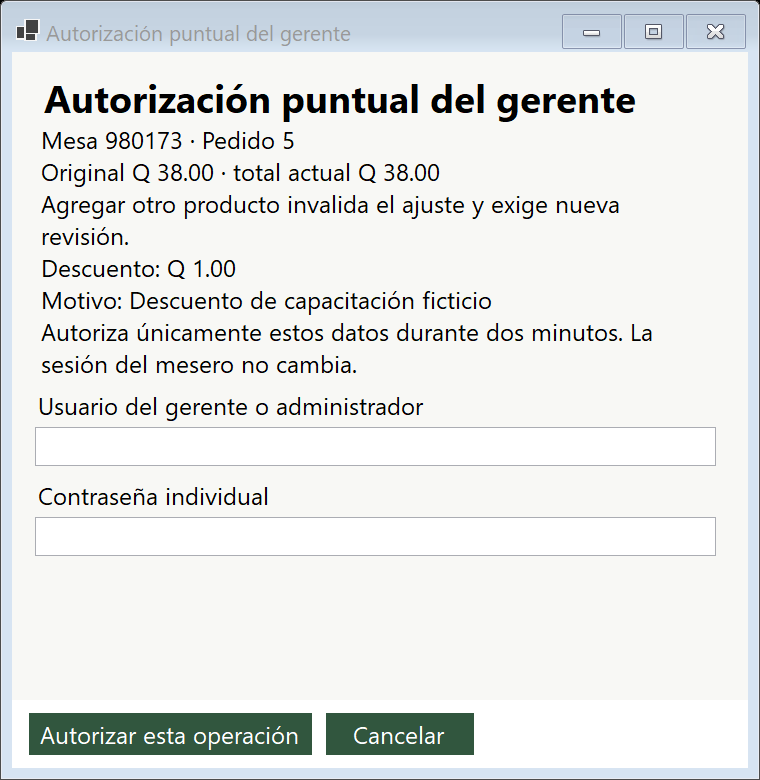
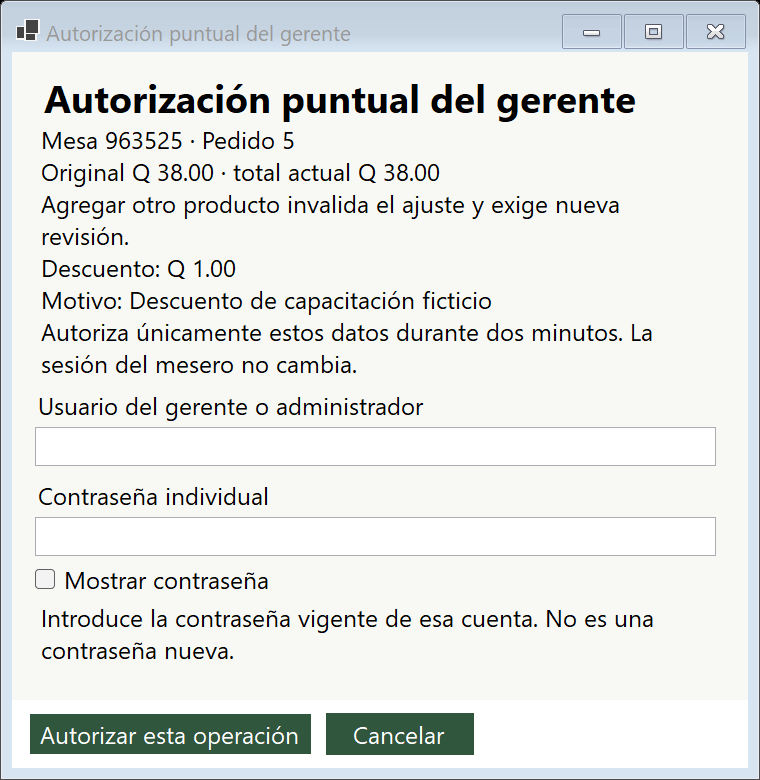
Corregir rechazos de autorización y permitir reintentos seguros

Changed region(s): [[0.0303, 0.7385, 0.8776, 0.8615], [0.1513, 0.1538, 0.2421, 0.2154]]

diff --git a/restaurante2/Pruebas/Roles/PruebasRechazosAutorizacion.cs b/restaurante2/Pruebas/Roles/PruebasRechazosAutorizacion.cs
@@ -1,0 +1,84 @@
+using System.Diagnostics;
+using System.Reflection;
+using System.Text.Json;
+using Microsoft.Data.SqlClient;
+using Restaurante.Backend.Dominio;
+using Restaurante.Backend.Servicios;
+using Restaurante.Frontend.Formularios;
+namespace PruebasRoles;
+internal static class PruebasRechazosAutorizacion
+{
+ const string Temporal="TemporalSoloPruebas2026!",Personal="PersonalSoloPruebas2026!";
+ public static void Ejecutar(string cadena,RepositorioRestaurante admin,string dir,Action<bool,string> ok)
+ {
+    if(!new SqlConnectionStringBuilder(cadena).InitialCatalog.StartsWith("Restaurante_Pruebas_"))throw new Exception("Solo bases aisladas.");
+    Directory.CreateDirectory(dir);ApplicationConfiguration.Initialize();var sufijo=Guid.NewGuid().ToString("N")[..8];
+    RepositorioRestaurante Repo(string u,string p){var r=new RepositorioRestaurante(new ConfiguracionConexionTemporal(cadena));if(r.IniciarSesion(u,p) is null)throw new Exception("No autentica fixture");return r;}
+    string Crear(string rol,bool cambiar=true)
+    {var u=rol+sufijo+Guid.NewGuid().ToString("N")[..4];admin.GuardarUsuario(null,"Persona ficticia "+rol,u,rol,true,Temporal);if(cambiar){var r=Repo(u,Temporal);r.CambiarMiContrasena(Temporal,Personal);}return u;}
+    void Sql(string sql,params(string,object)[] ps){using var c=new SqlConnection(cadena);c.Open();using var q=new SqlCommand(sql,c);foreach(var(n,v) in ps)q.Parameters.AddWithValue(n,v);q.ExecuteNonQuery();}
+    int Conteo(string tabla,Guid op){using var c=new SqlConnection(cadena);c.Open();using var q=new SqlCommand($"SELECT COUNT(*) FROM dbo.{tabla} WHERE "+(tabla=="OperacionesRestaurante"?"Id":"OperacionId")+"=@id;",c);q.Parameters.AddWithValue("@id",op);return(int)q.ExecuteScalar()!;}
+    var meseroNombre=Crear("Mesero");var gerente=Crear("Gerente");var administrador=Crear("Administrador");var temporal=Crear("Gerente",false);var inactivo=Crear("Gerente");
+    var uInactivo=admin.ListarUsuarios().Single(u=>u.Usuario==inactivo);admin.GuardarUsuario(uInactivo.Id,uInactivo.Nombre,uInactivo.Usuario,uInactivo.Rol,false,null);
+    var mesero=Repo(meseroNombre,Personal);var numero=1000000+Random.Shared.Next(90000);admin.CrearMesa(numero,4);var mesa=admin.ListarMesas().Single(m=>m.Numero==numero);var producto=admin.ListarMenu().First(p=>p.Precio>0);
+    var pedido=mesero.CrearPedido(new SolicitudPedido{MesaId=mesa.Id,Detalles=[new(producto.Id,1)]});var cuenta=mesero.RevisarCuenta(pedido.Id);
+    var solicitud=new SolicitudGestionMesa(Guid.NewGuid(),mesa.Id,pedido.Id,cuenta.Version,"Cancelar","Sin preparación ni consumo en prueba aislada",true);
+    ResultadoAutorizacion Intentar(string u,string p)=>mesero.IntentarAutorizarOperacion(solicitud.OperacionId,"GestionMesa",JsonSerializer.Serialize(solicitud),u,p);
+    int excepciones=0;EventHandler<System.Runtime.ExceptionServices.FirstChanceExceptionEventArgs> escuchar=(_,e)=>{if(e.Exception is UnauthorizedAccessException)excepciones++;};AppDomain.CurrentDomain.FirstChanceException+=escuchar;
+    try
+    {
+        ok(Intentar("","").Estado==EstadoAutorizacion.DatosIncompletos,"Servidor rechaza campos vacíos como resultado tipado");
+        ok(Intentar(gerente,"incorrecta").Estado==EstadoAutorizacion.CredencialesNoVerificadas,"Contraseña incorrecta no lanza excepción normal");
+        ok(Intentar(inactivo,Personal).Estado==EstadoAutorizacion.CredencialesNoVerificadas,"Cuenta inactiva no revela existencia");
+        ok(Intentar(temporal,Temporal).Estado==EstadoAutorizacion.CambioObligatorio,"Cuenta autenticada recibe instrucción de cambio obligatorio");
+        ok(Intentar(meseroNombre,Personal).Estado==EstadoAutorizacion.SinPermiso,"Mesero autenticado recibe mensaje de falta de rol");
+        ok(Conteo("OperacionesRestaurante",solicitud.OperacionId)==0&&Conteo("AutorizacionesOperacion",solicitud.OperacionId)==0,"Rechazos no aplican gestión ni dejan aprobación");
+        ok(mesero.RevisarCuenta(pedido.Id).Total==cuenta.Total,"Importe y pedido permanecen abiertos tras rechazos");
+        ok(Intentar(gerente,Personal).Autorizada,"Gerente válido autoriza");
+        ok(Intentar(gerente,"incorrecta").Estado==EstadoAutorizacion.CredencialesNoVerificadas&&Conteo("AutorizacionesOperacion",solicitud.OperacionId)==0,"Reintento incorrecto revoca aprobación anterior no consumida");
+        var bloqueado=Crear("Gerente");for(var i=0;i<5;i++)Intentar(bloqueado,"incorrecta");
+        ok(Intentar(bloqueado,Personal).Estado==EstadoAutorizacion.CredencialesNoVerificadas,"Bloqueo temporal conserva mensaje no enumerativo");
+        ok(Intentar(administrador,Personal).Autorizada,"Administrador válido autoriza sin elevar sesión solicitante");
+        ok(mesero.UsuarioActual!.Rol=="Mesero","Sesión del mesero permanece sin cambios");
+        ok(excepciones==0,"Rechazos esperados no generan UnauthorizedAccessException en API de interfaz");
+    }
+    finally{AppDomain.CurrentDomain.FirstChanceException-=escuchar;}
+    using(var f=new FormularioAutorizar(mesero,solicitud.OperacionId,"GestionMesa",solicitud,"Mesa ficticia · cancelar sin consumo"))
+    {Mostrar(f);Campo<Button>(f,"cancelar").PerformClick();Esperar(()=>f.IsDisposed||f.DialogResult==DialogResult.Cancel);ok(Conteo("AutorizacionesOperacion",solicitud.OperacionId)==0,"Cancelar revoca aprobación previa y no ejecuta gestión");}
+    Intentar(gerente,Personal);Sql("UPDATE dbo.AutorizacionesOperacion SET Caduca=DATEADD(minute,-1,SYSUTCDATETIME()) WHERE OperacionId=@id;",("@id",solicitud.OperacionId));
+    Rechaza(()=>mesero.GestionarMesa(solicitud),ok,"Aprobación vencida no permite ejecutar");
+    mesero.AgregarProductoAPedido(pedido.Id,producto.Id,1);ok(Intentar(gerente,Personal).Estado==EstadoAutorizacion.SolicitudModificada,"Cuenta modificada devuelve instrucción de actualizar");
+    solicitud=solicitud with{Version=mesero.RevisarCuenta(pedido.Id).Version};Intentar(gerente,Personal);
+    var jefe=admin.ListarUsuarios().Single(u=>u.Usuario==gerente);admin.GuardarUsuario(jefe.Id,jefe.Nombre,jefe.Usuario,jefe.Rol,true,null);
+    Rechaza(()=>mesero.GestionarMesa(solicitud),ok,"Cambio de cuenta autorizadora invalida aprobación");
+    using(var f=new FormularioAutorizar(mesero,solicitud.OperacionId,"GestionMesa",solicitud,$"Mesa {mesa.Numero} · Pedido {pedido.Id}\nCancelar sin preparación ni consumo\nImporte {MonedaGuatemala.Formatear(mesero.RevisarCuenta(pedido.Id).Total)}"))
+    {
+        Mostrar(f);Campo<Button>(f,"autorizar").PerformClick();ok(Campo<Label>(f,"mensaje").Text.Contains("usuario"),"Interfaz valida usuario vacío sin enviar");
+        Campo<TextBox>(f,"usuario").Text=gerente;Campo<Button>(f,"autorizar").PerformClick();ok(Campo<Label>(f,"mensaje").Text.Contains("contraseña vigente"),"Interfaz valida contraseña vacía sin nueva política de longitud");
+        Campo<TextBox>(f,"clave").Text="incorrecta";Campo<CheckBox>(f,"mostrarClave").Checked=true;ok(!Campo<TextBox>(f,"clave").UseSystemPasswordChar,"Mostrar contraseña funciona en autorización");
+        Campo<Button>(f,"autorizar").PerformClick();Esperar(()=>f.Resultado is not null&&Campo<Button>(f,"autorizar").Enabled);
+        ok(f.Resultado!.Estado==EstadoAutorizacion.CredencialesNoVerificadas&&Campo<TextBox>(f,"usuario").Text==gerente&&Campo<TextBox>(f,"clave").Text==""&& !Campo<CheckBox>(f,"mostrarClave").Checked,"Rechazo mantiene usuario limpia y vuelve a ocultar contraseña");
+        Capturar(f,dir,"AutorizacionRechazada");
+        foreach(var tamano in new[]{new Size(1280,720),new Size(1366,768)})
+        {f.Size=tamano;f.PerformLayout();Application.DoEvents();foreach(var n in new[]{"autorizar","cancelar","mensaje"}){var c=Campo<Control>(f,n);ok(f.ClientRectangle.Contains(f.RectangleToClient(c.RectangleToScreen(c.ClientRectangle))),"Control visible "+n+" en "+tamano.Width);}Capturar(f,dir,"Autorizacion-"+tamano.Width);}
+        ok(!Campo<TextBox>(f,"clave").InvokeRequired,"Campo de contraseña conserva el hilo de interfaz después del rechazo");
+        Campo<TextBox>(f,"clave").Text=Personal;Application.DoEvents();
+        ok(Campo<TextBox>(f,"clave").Text.Length==Personal.Length,"Contraseña de reintento permanece en el campo antes de enviar");
+        Campo<Button>(f,"autorizar").PerformClick();
+        try{Esperar(()=>f.Resultado is not null&&Campo<Button>(f,"autorizar").Enabled||f.DialogResult==DialogResult.OK);}
+        catch{Capturar(f,dir,"ReintentoDiagnostico");Console.Error.WriteLine("Estado de reintento: "+f.Resultado?.Estado+"; "+Campo<Label>(f,"mensaje").Text+"; botón activo "+Campo<Button>(f,"autorizar").Enabled);throw;}
+        if(f.DialogResult!=DialogResult.OK)throw new Exception("Reintento: "+f.Resultado?.Estado+"; "+Campo<Label>(f,"mensaje").Text);
+        ok(f.Resultado!.Autorizada,"Mismo diálogo permite reintento correcto sin reiniciar");
+    }
+    mesero.GestionarMesa(solicitud);var repetido=mesero.GestionarMesa(solicitud);ok(repetido=="Cancelado"&&Conteo("OperacionesRestaurante",solicitud.OperacionId)==1,"Recuperación del resultado no duplica gestión");
+    ok(Intentar(gerente,Personal).Estado==EstadoAutorizacion.OperacionAplicada,"Solicitud ya aplicada exige recuperación y no otra aprobación");
+    var cfgSinSql=new ConfiguracionConexionTemporal("Server=127.0.0.1,1;Database=Restaurante_Pruebas_SinServidor;Integrated Security=True;Connect Timeout=1;Encrypt=False;");
+    using(var f=new FormularioAutorizar(new RepositorioRestaurante(cfgSinSql),Guid.NewGuid(),"GestionMesa",solicitud,"Prueba de conexión no disponible"))
+    {Mostrar(f);Campo<TextBox>(f,"usuario").Text="cuenta ficticia";Campo<TextBox>(f,"clave").Text="valor ficticio";Campo<Button>(f,"autorizar").PerformClick();Esperar(()=>Campo<Button>(f,"autorizar").Enabled&&Campo<Label>(f,"mensaje").Text.Contains("base de datos"));ok(f.DialogResult!=DialogResult.OK&&f.Resultado is null,"Error SQL no se presenta como contraseña incorrecta ni autoriza");Capturar(f,dir,"AutorizacionSinSql");Campo<Button>(f,"cancelar").PerformClick();Esperar(()=>f.IsDisposed||f.DialogResult==DialogResult.Cancel);}
+ }
+ static void Rechaza(Action a,Action<bool,string> ok,string mensaje){try{a();throw new Exception("Se permitió: "+mensaje);}catch(UnauthorizedAccessException){ok(true,mensaje);}}
+ static T Campo<T>(Form f,string n)=>(T)f.GetType().GetField(n,BindingFlags.Instance|BindingFlags.NonPublic)!.GetValue(f)!;
+ static void Mostrar(Form f){f.StartPosition=FormStartPosition.Manual;f.Location=new Point(-20000,-20000);f.ShowInTaskbar=false;f.Show();Application.DoEvents();}
+ static void Esperar(Func<bool> p){var t=Stopwatch.StartNew();while(!p()){if(t.Elapsed>TimeSpan.FromSeconds(25))throw new Exception("Interfaz no alcanzó el estado esperado");Application.DoEvents();Thread.Sleep(15);}Application.DoEvents();}
+ static void Capturar(Form f,string dir,string n){using var b=new Bitmap(f.Width,f.Height);f.DrawToBitmap(b,new Rectangle(0,0,b.Width,b.Height));b.Save(Path.Combine(dir,n+".png"));}
+}

diff --git a/restaurante2/Restaurante.Backend/Servicios/RepositorioRestaurante.Autorizacion.cs b/restaurante2/Restaurante.Backend/Servicios/RepositorioRestaurante.Autorizacion.cs
@@ -1,0 +1,99 @@
+using System.Data;
+using System.Security.Cryptography;
+using System.Text;
+using System.Text.Json;
+using Microsoft.Data.SqlClient;
+using Restaurante.Backend.Dominio;
+namespace Restaurante.Backend.Servicios;
+public sealed partial class RepositorioRestaurante
+{
+    private UsuarioAutenticado? SesionAutorizacion(SqlConnection c,SqlTransaction? t)
+    {
+        var s=_sesion;if(s is null)return null;
+        using var q=Consulta(c,t,"SELECT Nombre,Rol,VersionSeguridad FROM dbo.Usuarios WITH(HOLDLOCK) WHERE Id=@id AND Activo=1 AND CambioObligatorio=0;",("@id",s.Id));
+        using var r=q.ExecuteReader();
+        if(!r.Read()||r.GetInt32(2)!=s.VersionSeguridad||r.GetString(1) is not("Mesero" or "Empleado" or "Gerente" or "Administrador"))return null;
+        return new(r.GetString(0),r.GetString(1),s.Id,r.GetInt32(2));
+    }
+    public bool RevocarAutorizacion(Guid id)
+    {
+        using var c=AbrirConexion();using var t=c.BeginTransaction(IsolationLevel.Serializable);
+        var actor=SesionAutorizacion(c,t);if(actor is null)return false;
+        Ejecutar(c,t,"DELETE dbo.AutorizacionesOperacion WHERE OperacionId=@id AND SolicitanteId=@actor AND Consumida=0;",("@id",id),("@actor",actor.Id));t.Commit();return true;
+    }
+    public ResultadoAutorizacion IntentarAutorizarOperacion(Guid id,string tipo,string json,string usuario,string clave)
+    {
+        static ResultadoAutorizacion R(EstadoAutorizacion e,string m)=>new(e,m);
+        // Revoke only this actor's unused approval in a committed transaction, including failed retries.
+        if(!RevocarAutorizacion(id))return R(EstadoAutorizacion.SesionModificada,"Tu sesión cambió. Vuelve a iniciar sesión antes de solicitar autorización.");
+        if(string.IsNullOrWhiteSpace(usuario)||string.IsNullOrEmpty(clave))return R(EstadoAutorizacion.DatosIncompletos,"Escribe usuario y contraseña vigentes del gerente o administrador.");
+        var autorizador=VerificarAcceso(usuario,clave,true);
+        if(autorizador is null)return R(EstadoAutorizacion.CredencialesNoVerificadas,"No se pudo verificar la cuenta. Revisa usuario y contraseña. Si acumulaste cinco intentos fallidos, espera cinco minutos o consulta al administrador.");
+        if(autorizador.CambioObligatorio)return R(EstadoAutorizacion.CambioObligatorio,"Debes cambiar tu contraseña desde Iniciar sesión antes de autorizar.");
+        if(autorizador.Rol is not("Administrador" or "Gerente"))return R(EstadoAutorizacion.SinPermiso,"Esta cuenta no tiene permiso para autorizar. Utiliza una cuenta de Gerente o Administrador.");
+        object? solicitud;
+        try
+        {
+            solicitud=tipo switch {
+                "GestionMesa"=>JsonSerializer.Deserialize<SolicitudGestionMesa>(json),
+                "ConciliarTarjeta"=>JsonSerializer.Deserialize<SolicitudConciliacion>(json),
+                "Ajuste"=>JsonSerializer.Deserialize<SolicitudAjuste>(json),_=>null};
+        }
+        catch(JsonException){return R(EstadoAutorizacion.SolicitudInvalida,"La solicitud es inválida. Cierra esta ventana y vuelve a revisar la cuenta.");}
+        var solicitudId=solicitud switch{SolicitudGestionMesa s=>s.OperacionId,SolicitudAjuste s=>s.OperacionId,SolicitudConciliacion s=>s.OperacionId,_=>Guid.Empty};
+        if(id==Guid.Empty||id!=solicitudId||solicitud is null)return R(EstadoAutorizacion.SolicitudInvalida,"La solicitud es inválida. Cierra esta ventana y vuelve a revisar la cuenta.");
+        var hash=Convert.ToHexString(SHA256.HashData(Encoding.UTF8.GetBytes(JsonSerializer.Serialize(solicitud,solicitud.GetType()))));
+        using var c=AbrirConexion();using var t=c.BeginTransaction(IsolationLevel.Serializable);
+        var actor=SesionAutorizacion(c,t);if(actor is null)return R(EstadoAutorizacion.SesionModificada,"Tu sesión cambió. Vuelve a iniciar sesión.");
+        using(var q=Consulta(c,t,"SELECT UsuarioId FROM dbo.OperacionesRestaurante WITH(UPDLOCK,HOLDLOCK) WHERE Id=@id;",("@id",id)))
+        {
+            if(q.ExecuteScalar() is int propietario)
+                return propietario==actor.Id?R(EstadoAutorizacion.OperacionAplicada,"SQL ya registró esta operación. Recupérala desde Inicio con su identificador original; no la repitas.")
+                    :R(EstadoAutorizacion.SolicitudInvalida,"La solicitud no corresponde a esta sesión.");
+        }
+        using(var q=Consulta(c,t,"SELECT VersionSeguridad FROM dbo.Usuarios WITH(UPDLOCK,HOLDLOCK) WHERE Id=@id AND Activo=1 AND CambioObligatorio=0 AND Rol IN(N'Administrador',N'Gerente');",("@id",autorizador.Id)))
+            if(q.ExecuteScalar() is not int v||v!=autorizador.VersionSeguridad)return R(EstadoAutorizacion.SesionModificada,"Los permisos de esta cuenta cambiaron. Vuelve a verificar la autorización.");
+        int? mesa=null,pedido=null;string? version=null;decimal? total=null;string? motivo=null;
+        if(solicitud is SolicitudGestionMesa g)
+        {
+            if(g.Accion is not("Cancelar" or "Incidencia" or "Corregir estado"))return R(EstadoAutorizacion.SolicitudInvalida,"Acción no autorizable.");
+            mesa=g.MesaId;pedido=g.PedidoId;version=g.Version;motivo=g.Motivo;
+        }
+        else if(solicitud is SolicitudAjuste a){pedido=a.PedidoId;version=a.Version;total=a.TotalEsperado;motivo=a.Motivo;}
+        else if(solicitud is SolicitudConciliacion conciliacion)
+        {
+            motivo=conciliacion.Motivo;
+            using var lectura=AbrirConexion();
+            using var q=Consulta(lectura,null,"SELECT PedidoId,SolicitudOriginal FROM dbo.PagosManuales WHERE OperacionId=@op AND Estado=N'Incierto';",("@op",conciliacion.OperacionIncierta));
+            using var r=q.ExecuteReader();
+            if(!r.Read())return R(EstadoAutorizacion.SolicitudModificada,"La tarjeta ya no está pendiente. Actualiza la cuenta antes de solicitar autorización.");
+            pedido=r.GetInt32(0);var original=JsonSerializer.Deserialize<SolicitudCobro>(r.GetString(1))!;version=original.Version;total=original.TotalEsperado;
+        }
+        if(string.IsNullOrWhiteSpace(motivo)||motivo.Length>500)return R(EstadoAutorizacion.SolicitudInvalida,"Escribe un motivo válido antes de solicitar autorización.");
+        if(pedido.HasValue&&!mesa.HasValue)
+        {
+            using var lectura=AbrirConexion();using var q=Consulta(lectura,null,"SELECT MesaId FROM dbo.Pedidos WHERE Id=@p;",("@p",pedido));
+            if(q.ExecuteScalar() is int m)mesa=m;
+        }
+        if(mesa.HasValue)
+        {
+            using var q=Consulta(c,t,"SELECT Id FROM dbo.Mesas WITH(UPDLOCK,HOLDLOCK) WHERE Id=@m;",("@m",mesa));
+            if(q.ExecuteScalar() is null)return R(EstadoAutorizacion.SolicitudModificada,"La mesa cambió. Actualiza la cuenta antes de autorizar.");
+        }
+        if(pedido.HasValue)
+        {
+            using var q=Consulta(c,t,"SELECT MesaId,Estado,VersionCuenta,Total FROM dbo.Pedidos WITH(UPDLOCK,HOLDLOCK) WHERE Id=@p;",("@p",pedido));using var r=q.ExecuteReader();
+            if(!r.Read()||r.GetString(1) is not("Abierto" or "En preparación")||Convert.ToBase64String((byte[])r[2])!=version||total.HasValue&&r.GetDecimal(3)!=total||mesa.HasValue&&r.GetInt32(0)!=mesa)
+                return R(EstadoAutorizacion.SolicitudModificada,"La solicitud cambió o venció. Actualiza la cuenta y solicita una nueva autorización.");
+        }
+        else if(solicitud is SolicitudGestionMesa {Accion:"Corregir estado"} correccion)
+        {
+            using var q=Consulta(c,t,"SELECT COUNT(*) FROM dbo.Mesas m WITH(UPDLOCK,HOLDLOCK) WHERE Id=@m AND Estado=N'Ocupada' AND NOT EXISTS(SELECT 1 FROM dbo.Pedidos WHERE MesaId=m.Id AND Estado IN(N'Abierto',N'En preparación'));",("@m",correccion.MesaId));
+            if((int)q.ExecuteScalar()!!=1)return R(EstadoAutorizacion.SolicitudModificada,"El estado de la mesa cambió. Actualiza antes de solicitar autorización.");
+        }
+        else return R(EstadoAutorizacion.SolicitudInvalida,"Selecciona un pedido válido.");
+        Ejecutar(c,t,"INSERT dbo.AutorizacionesOperacion(OperacionId,Tipo,SolicitudHash,SolicitanteId,AutorizadorId,VersionAutorizador,Caduca)VALUES(@id,@tipo,@hash,@actor,@jefe,@v,DATEADD(minute,2,SYSUTCDATETIME()));",("@id",id),("@tipo",tipo),("@hash",hash),("@actor",actor.Id),("@jefe",autorizador.Id),("@v",autorizador.VersionSeguridad));
+        Seguridad(c,t,actor.Id,autorizador.Id,"Autorizar operación",$"{tipo}; operación {id}");t.Commit();
+        return R(EstadoAutorizacion.Autorizada,"Operación autorizada únicamente para los datos revisados.");
+    }
+}

diff --git a/restaurante2/Restaurante.Frontend/Formularios/FormularioAutorizar.cs b/restaurante2/Restaurante.Frontend/Formularios/FormularioAutorizar.cs
@@ -1,22 +1,58 @@
 using System.Text.Json;
+using Restaurante.Backend.Dominio;
 using Restaurante.Backend.Servicios;
 namespace Restaurante.Frontend.Formularios;
 public sealed partial class FormularioAutorizar:Form
 {
-    private readonly IRepositorioRestaurante repo=null!;private readonly Guid id;private readonly string tipo="",json="";private bool ocupado;
+    private readonly IRepositorioRestaurante repo=null!;private readonly Guid id;private readonly string tipo="",json="";private bool ocupado,cerrando;
+    public ResultadoAutorizacion? Resultado {get;private set;}
+    public string? AdvertenciaCierre {get;private set;}
     public FormularioAutorizar()=>InitializeComponent();
     public FormularioAutorizar(IRepositorioRestaurante repo,Guid id,string tipo,object solicitud,string detalle):this()
-    {this.repo=repo;this.id=id;this.tipo=tipo;json=JsonSerializer.Serialize(solicitud,solicitud.GetType());resumen.Text=detalle+"\nAutoriza únicamente estos datos durante dos minutos. La sesión del mesero no cambia.";FormClosing+=(_,e)=>e.Cancel=ocupado;}
+    {
+        this.repo=repo;this.id=id;this.tipo=tipo;json=JsonSerializer.Serialize(solicitud,solicitud.GetType());resumen.Text=detalle+"\nAutoriza únicamente estos datos durante dos minutos. La sesión del mesero no cambia.";
+        FormClosing+=(_,e)=>{if(ocupado){e.Cancel=true;return;}if(!cerrando&&DialogResult!=DialogResult.OK){e.Cancel=true;Cancelar_Click(this,EventArgs.Empty);}};
+    }
+    private void Procesando(bool valor)
+    {ocupado=valor;usuario.Enabled=clave.Enabled=mostrarClave.Enabled=autorizar.Enabled=cancelar.Enabled=!valor;autorizar.Text=valor?"Comprobando…":"Autorizar esta operación";UseWaitCursor=valor;}
+    private void EnInterfaz(Action accion)
+    {if(IsDisposed)return;if(InvokeRequired)Invoke(accion);else accion();}
     private async void Autorizar_Click(object? sender,EventArgs e)
     {
-        if(ocupado)return;var u=usuario.Text;var c=clave.Text;ocupado=true;autorizar.Enabled=false;
-        try{await Task.Run(()=>repo.AutorizarOperacion(id,tipo,json,u,c));ocupado=false;DialogResult=DialogResult.OK;}
-        catch(Exception ex){mensaje.Text=ex.Message;}
-        finally{clave.Clear();ocupado=false;autorizar.Enabled=true;if(DialogResult==DialogResult.OK)Close();}
+        if(ocupado)return;Resultado=null;
+        if(string.IsNullOrWhiteSpace(usuario.Text)){mensaje.Text="Escribe el usuario del gerente o administrador.";usuario.Focus();return;}
+        if(string.IsNullOrEmpty(clave.Text)){mensaje.Text="Escribe la contraseña vigente de esa cuenta.";clave.Focus();return;}
+        var u=usuario.Text;var c=clave.Text;Procesando(true);mensaje.Text="Comprobando cuenta y solicitud…";
+        ResultadoAutorizacion? resultado=null;string texto;
+        try{resultado=await Task.Run(()=>repo.IntentarAutorizarOperacion(id,tipo,json,u,c)).ConfigureAwait(false);texto=resultado.Mensaje;}
+        catch(Microsoft.Data.SqlClient.SqlException){texto="No se pudo consultar la base de datos. No se confirmó la autorización. Comprueba la conexión antes de reintentar.";}
+        catch(Exception ex)
+        {
+            System.Diagnostics.Trace.TraceError("Fallo técnico de autorización {0}: {1}",id,ex.GetType().Name);
+            texto=$"No se confirmó la autorización por un error técnico ({ex.GetType().Name}). Conserva la solicitud y solicita asistencia; no repitas la gestión manualmente.";
+        }
+        EnInterfaz(()=>{
+            Resultado=resultado;mensaje.Text=texto;clave.Clear();mostrarClave.Checked=false;Procesando(false);
+            if(Resultado?.Autorizada==true){cerrando=true;DialogResult=DialogResult.OK;Close();}
+            else{if(Resultado?.Estado==EstadoAutorizacion.OperacionAplicada)autorizar.Enabled=false;clave.Focus();}
+        });
+    }
+    private async void Cancelar_Click(object? sender,EventArgs e)
+    {
+        if(ocupado)return;Procesando(true);
+        try{if(repo is not null)await Task.Run(()=>repo.RevocarAutorizacion(id)).ConfigureAwait(false);}
+        catch(Exception ex)
+        {
+            System.Diagnostics.Trace.TraceError("No se confirmó revocación de autorización {0}: {1}",id,ex.GetType().Name);
+            AdvertenciaCierre="Se canceló la ventana y no se ejecutó la gestión. No se pudo confirmar en SQL la revocación de una aprobación previa, si existía. Comprueba la conexión y el resultado original antes de reintentar.";
+        }
+        finally{EnInterfaz(()=>{clave.Clear();mostrarClave.Checked=false;Procesando(false);cerrando=true;DialogResult=DialogResult.Cancel;Close();});}
     }
     public static bool Solicitar(IWin32Window owner,IRepositorioRestaurante repo,Guid id,string tipo,object solicitud,string detalle)
     {
         if(repo.UsuarioActual?.Rol is "Administrador" or "Gerente")return true;
-        using var f=new FormularioAutorizar(repo,id,tipo,solicitud,detalle);return f.ShowDialog(owner)==DialogResult.OK;
+        using var f=new FormularioAutorizar(repo,id,tipo,solicitud,detalle);var resultado=f.ShowDialog(owner);
+        if(f.AdvertenciaCierre is not null)MessageBox.Show(owner,f.AdvertenciaCierre,"Autorización cancelada",MessageBoxButtons.OK,MessageBoxIcon.Warning);
+        return resultado==DialogResult.OK;
     }
 }

diff --git a/restaurante2/Restaurante.Backend/Servicios/RepositorioRestaurante.Seguridad.cs b/restaurante2/Restaurante.Backend/Servicios/RepositorioRestaurante.Seguridad.cs
@@ -108,25 +108,10 @@ public sealed partial class RepositorioRestaurante
 
     public void AutorizarOperacion(Guid id,string tipo,string json,string usuario,string clave)
     {
-        var actor=ExigirSesion();var autorizador=VerificarAcceso(usuario,clave,true);
-        if(autorizador is null||autorizador.CambioObligatorio||autorizador.Rol is not("Administrador" or "Gerente"))throw new UnauthorizedAccessException("Autorización rechazada. Compruebe rol, contraseña y cambio obligatorio.");
-        object solicitud=tipo switch {
-            "GestionMesa"=>JsonSerializer.Deserialize<SolicitudGestionMesa>(json)??throw new ArgumentException("Solicitud inválida"),
-            "ConciliarTarjeta"=>JsonSerializer.Deserialize<SolicitudConciliacion>(json)??throw new ArgumentException("Solicitud inválida"),
-            "Ajuste"=>JsonSerializer.Deserialize<SolicitudAjuste>(json)??throw new ArgumentException("Solicitud inválida"),
-            _=>throw new ArgumentException("Acción no autorizable.")};
-        int pedido=solicitud switch{SolicitudGestionMesa s=>s.PedidoId??0,SolicitudAjuste s=>s.PedidoId,_=>0};
-        var solicitudId=solicitud switch{SolicitudGestionMesa s=>s.OperacionId,SolicitudAjuste s=>s.OperacionId,SolicitudConciliacion s=>s.OperacionId,_=>Guid.Empty};
-        if(id==Guid.Empty||id!=solicitudId)throw new ArgumentException("Identificador incompatible.");
-        if(pedido>0){var cuenta=RevisarCuenta(pedido);if(solicitud is SolicitudAjuste ajuste)ExigirVersion(cuenta,ajuste.Version,ajuste.TotalEsperado);if(solicitud is SolicitudGestionMesa gestion)ExigirVersion(cuenta,gestion.Version??"");}
-        var hash=Convert.ToHexString(SHA256.HashData(Encoding.UTF8.GetBytes(JsonSerializer.Serialize(solicitud,solicitud.GetType()))));
-        using var c=AbrirConexion();using var t=c.BeginTransaction(IsolationLevel.Serializable);SesionEn(c,t);
-        using(var q=Consulta(c,t,"SELECT VersionSeguridad FROM dbo.Usuarios WITH(UPDLOCK,HOLDLOCK) WHERE Id=@id AND Activo=1 AND CambioObligatorio=0 AND Rol IN(N'Administrador',N'Gerente');",("@id",autorizador.Id)))
-            if(q.ExecuteScalar() is not int v||v!=autorizador.VersionSeguridad)throw new UnauthorizedAccessException("El acceso del autorizador cambió.");
-        using(var q=Consulta(c,t,"SELECT COUNT(*) FROM dbo.OperacionesRestaurante WHERE Id=@id;",("@id",id)))if((int)q.ExecuteScalar()!>0)throw new InvalidOperationException("Recupere la operación ya aplicada.");
-        Ejecutar(c,t,"DELETE dbo.AutorizacionesOperacion WHERE OperacionId=@id AND Consumida=0;INSERT dbo.AutorizacionesOperacion(OperacionId,Tipo,SolicitudHash,SolicitanteId,AutorizadorId,VersionAutorizador,Caduca)VALUES(@id,@tipo,@hash,@actor,@jefe,@v,DATEADD(minute,2,SYSUTCDATETIME()));",("@id",id),("@tipo",tipo),("@hash",hash),("@actor",actor.Id),("@jefe",autorizador.Id),("@v",autorizador.VersionSeguridad));
-        Seguridad(c,t,actor.Id,autorizador.Id,"Autorizar operación",$"{tipo}; operación {id}");t.Commit();
+        var resultado=IntentarAutorizarOperacion(id,tipo,json,usuario,clave);
+        if(!resultado.Autorizada)throw new UnauthorizedAccessException(resultado.Mensaje);
     }
+
     private static int ExigirAutorizacion(SqlConnection c,SqlTransaction t,Guid id,string tipo,string hash,UsuarioAutenticado actor)
     {
         if(actor.Rol is "Administrador" or "Gerente")return actor.Id;

diff --git a/restaurante2/Restaurante.Frontend/Formularios/FormularioAutorizar.Designer.cs b/restaurante2/Restaurante.Frontend/Formularios/FormularioAutorizar.Designer.cs
@@ -1,11 +1,16 @@
 namespace Restaurante.Frontend.Formularios;
 public sealed partial class FormularioAutorizar
 {
-    private TextBox usuario=null!,clave=null!;private Label resumen=null!,mensaje=null!;private Button autorizar=null!;
+    private TextBox usuario=null!,clave=null!;private Label resumen=null!,mensaje=null!;private Button autorizar=null!,cancelar=null!;private CheckBox mostrarClave=null!;
     private void InitializeComponent()
     {
         var p=DisenoFormulario.Preparar(this,"Autorización puntual del gerente");resumen=new Label{AutoSize=true,MaximumSize=new Size(500,0)};p.Controls.Add(resumen);
         usuario=DisenoFormulario.Campo(p,"Usuario del gerente o administrador");clave=DisenoFormulario.Campo(p,"Contraseña individual",true);
-        autorizar=DisenoFormulario.Boton(p,"Autorizar esta operación",Autorizar_Click);DisenoFormulario.Boton(p,"Cancelar",(_,_)=>Close());mensaje=DisenoFormulario.Mensaje(p);
+        usuario.MaxLength=50;usuario.TabIndex=0;clave.TabIndex=1;
+        mostrarClave=new CheckBox{Text="Mostrar contraseña",AutoSize=true,TabIndex=2};mostrarClave.CheckedChanged+=(_,_)=>clave.UseSystemPasswordChar=!mostrarClave.Checked;p.Controls.Add(mostrarClave);
+        p.Controls.Add(new Label{Text="Introduce la contraseña vigente de esa cuenta. No es una contraseña nueva.",AutoSize=true,MaximumSize=new Size(650,0)});
+        autorizar=DisenoFormulario.Boton(p,"Autorizar esta operación",Autorizar_Click);autorizar.TabIndex=3;
+        cancelar=DisenoFormulario.Boton(p,"Cancelar",Cancelar_Click);cancelar.TabIndex=4;mensaje=DisenoFormulario.Mensaje(p);
+        AcceptButton=autorizar;CancelButton=cancelar;
     }
 }

diff --git a/restaurante2/Pruebas/Roles/Program.cs b/restaurante2/Pruebas/Roles/Program.cs
@@ -22,6 +22,8 @@ internal static class Program
    var h=Contrasenas.Crear(Personal);
    Sql("UPDATE dbo.Usuarios SET ContrasenaHash=@h,Sal=@s,Algoritmo=N'PBKDF2-SHA256',Iteraciones=600000,CambioObligatorio=0,IntentosFallidos=0,BloqueadoHasta=NULL WHERE Usuario=N'admin';",("@h",h.Hash),("@s",h.Sal));
    admin=Repo("admin",Personal);admin.ValidarEsquema();Ok(true,"Esquema 5 compatible");
+   if(args.Length==2&&args[0]=="--validar-autorizacion")
+   {PruebasRoles.PruebasRechazosAutorizacion.Ejecutar(cadena,admin,args[1],Ok);Console.WriteLine($"TOTAL {aprobadas} comprobaciones de autorización");return 0;}
    var legadoNombre="legado"+sufijo;
    admin.GuardarUsuario(null,"Acceso legado de prueba",legadoNombre,"Mesero",true,Inicial);
    Sql("UPDATE dbo.Usuarios SET ContrasenaHash=CONVERT(varchar(64),HASHBYTES('SHA2_256','SalLegada:corta'),2),Sal=N'SalLegada',Algoritmo=N'SHA256',Iteraciones=0,CambioObligatorio=1 WHERE Usuario=@u;",("@u",legadoNombre));

diff --git a/restaurante2/Pruebas/Roles/PruebasInterfazRoles.cs b/restaurante2/Pruebas/Roles/PruebasInterfazRoles.cs
@@ -52,7 +52,7 @@ internal static class PruebasInterfazRoles
     }
  }
  static T Campo<T>(Form f,string nombre)=>(T)f.GetType().GetField(nombre,BindingFlags.Instance|BindingFlags.NonPublic)!.GetValue(f)!;
- static void Mostrar(Form f){f.ShowInTaskbar=false;f.StartPosition=FormStartPosition.Manual;f.Location=new Point(-20000,-20000);f.Show();Application.DoEvents();}
+ static void Mostrar(Form f){f.ShowInTaskbar=false;f.StartPosition=FormStartPosition.Manual;f.Location=new Point(-20000,-20000);f.Show();SynchronizationContext.SetSynchronizationContext(new WindowsFormsSynchronizationContext());Application.DoEvents();}
  static void Modal<T>(Action disparar,Action<T> completar) where T:Form
  {
     bool atendido=false;long visibleDesde=-1;var reloj=Stopwatch.StartNew();using var timer=new System.Windows.Forms.Timer{Interval=50};

diff --git a/restaurante2/Restaurante.Backend/Servicios/IRepositorioRestaurante.cs b/restaurante2/Restaurante.Backend/Servicios/IRepositorioRestaurante.cs
@@ -9,6 +9,8 @@ public interface IRepositorioRestaurante
     IReadOnlyList<RegistroSeguridad> ConsultarAuditoriaSeguridad();
     void GuardarUsuario(int? id,string nombre,string usuario,string rol,bool activo,string? nuevaClave);
     void AutorizarOperacion(Guid id,string tipo,string solicitudJson,string usuario,string clave);
+    ResultadoAutorizacion IntentarAutorizarOperacion(Guid id,string tipo,string solicitudJson,string usuario,string clave);
+    bool RevocarAutorizacion(Guid id);
     decimal AplicarAjuste(SolicitudAjuste solicitud);
     UsuarioAutenticado? UsuarioActual { get; }
     string IdentificadorBase { get; }

diff --git a/restaurante2/Restaurante.Backend/Dominio/EstadoAutorizacion.cs b/restaurante2/Restaurante.Backend/Dominio/EstadoAutorizacion.cs
@@ -1,0 +1,6 @@
+namespace Restaurante.Backend.Dominio;
+public enum EstadoAutorizacion
+{
+    Autorizada,DatosIncompletos,CredencialesNoVerificadas,CambioObligatorio,SinPermiso,
+    SesionModificada,SolicitudInvalida,SolicitudModificada,OperacionAplicada
+}

diff --git a/restaurante2/Restaurante.Backend/Dominio/ResultadoAutorizacion.cs b/restaurante2/Restaurante.Backend/Dominio/ResultadoAutorizacion.cs
@@ -1,0 +1,5 @@
+namespace Restaurante.Backend.Dominio;
+public sealed record ResultadoAutorizacion(EstadoAutorizacion Estado,string Mensaje)
+{
+    public bool Autorizada=>Estado==EstadoAutorizacion.Autorizada;
+}

diff --git a/restaurante2/Pruebas/CorreccionAutorizacion.md b/restaurante2/Pruebas/CorreccionAutorizacion.md
@@ -1,0 +1,59 @@
+# Corrección de rechazos de autorización
+
+## Diagnóstico
+
+La captura muestra `autorizador = null`. `VerificarAcceso` devuelve ese resultado si la cuenta no existe, está inactiva, está temporalmente bloqueada o su contraseña no coincide; también rechaza entradas fuera de los límites. No es posible determinar cuál ocurrió en la cuenta real a partir de la captura. La comparación del usuario usa `WHERE Usuario=@u` y depende de la intercalación de SQL Server; no se atribuye el rechazo a escribir Admin con mayúscula.
+
+El método anterior agrupaba estos resultados, el cambio obligatorio y el rol insuficiente en una `UnauthorizedAccessException`. El diálogo anterior capturaba posteriormente la excepción. Por tanto, la captura del depurador por sí sola no demuestra un cierre de la aplicación. No se cambió la configuración del depurador.
+
+## Corrección
+
+- El diálogo utiliza `IntentarAutorizarOperacion` y un resultado tipado para los rechazos esperados. El método anterior se conserva como adaptador compatible para consumidores existentes y pruebas de servicio; ese adaptador sigue lanzando una excepción si se rechaza la solicitud.
+- Credenciales incorrectas, cuenta inexistente, inactiva y bloqueo comparten un mensaje seguro. Después de verificar la contraseña se distingue cambio obligatorio y rol insuficiente.
+- Se comprueban sesión vigente, identificador, acción, motivo y versión del pedido; se conserva la vinculación mediante hash a los datos originales. La autorización caduca a los dos minutos y el consumo vuelve a comprobar rol, versión de seguridad, solicitante y solicitud.
+- Antes de comprobar nuevamente credenciales se revoca, en una transacción confirmada, la aprobación anterior no consumida del mismo solicitante y operación. Cancelar también intenta revocarla. Un rechazo no ejecuta la gestión comercial.
+- El formulario valida campos vacíos, impide doble envío, permite mostrar la contraseña, conserva el usuario y limpia y vuelve a ocultar la contraseña al terminar. No exige el mínimo de una contraseña nueva para autenticar.
+- Las actualizaciones posteriores a la comprobación asíncrona se ejecutan explícitamente en el hilo de interfaz. Esto evita que el control de contraseña pierda su valor durante un reintento.
+- Un fallo SQL no se presenta como contraseña incorrecta. Si al cancelar no se puede confirmar la revocación, se informa de esa incertidumbre; no se ejecuta la gestión. Si SQL ya registró la operación se indica recuperar el identificador original, sin duplicarla.
+
+## Uso
+
+1. Introduce el usuario y la contraseña vigente del gerente o administrador.
+2. Si se rechaza, revisa el mensaje, corrige la contraseña y vuelve a autorizar en la misma ventana. Cinco intentos fallidos bloquean temporalmente la cuenta durante cinco minutos.
+3. Si se exige cambiar la contraseña, hazlo desde Iniciar sesión. No se restablece automáticamente.
+4. Si cambió la cuenta o el pedido, actualiza la información antes de solicitar otra aprobación.
+5. Usa Cancelar para abandonar. No repitas una gestión cuyo resultado SQL sea incierto: recupérala desde Inicio con su identificador original.
+
+## Evidencias y reproducción
+
+Se aprobaron 34 comprobaciones específicas de autorización y 72 de regresión de roles, instalación, concurrencia y controles reales. Se utilizaron exclusivamente bases `Restaurante_Pruebas_*` y cuentas ficticias. No se modificaron usuarios, contraseñas, conexión ni esquema de RestauranteDB.
+
+Desde la raíz del repositorio:
+
+```powershell
+& ./restaurante2/Pruebas/Roles/VerificarRoles.ps1 -SoloAutorizacion -RutaArtefactos .codex-build/AutorizacionArtefactos
+& ./restaurante2/Pruebas/Roles/VerificarRoles.ps1 -RutaArtefactos .codex-build/AutorizacionArtefactos
+dotnet build restaurante2/Restaurante.sln -c Release --artifacts-path .codex-build/AutorizacionArtefactos --no-restore -m:1 -nr:false
+```
+
+El verificador conserva las bases aisladas para diagnóstico y no cambia el perfil habitual. Los registros están en [EvidenciasAutorizacion/verificacion.txt](EvidenciasAutorizacion/verificacion.txt) y [EvidenciasRoles/verificacion.txt](EvidenciasRoles/verificacion.txt). El verificador visual instala su contexto WinForms en el hilo de pruebas después de abrir cada formulario.
+
+Capturas reales con contraseña vacía y cuentas ficticias:
+
+![Rechazo legible y botones visibles](EvidenciasAutorizacion/AutorizacionRechazada.png)
+
+![Fallo SQL diferenciado](EvidenciasAutorizacion/AutorizacionSinSql.png)
+
+También se verificó que mensaje y botones permanecen visibles con tamaños de ventana 1280 × 720 y 1366 × 768. Esto no certifica todos los escalados DPI ni sustituye una revisión física de cada monitor.
+
+Debug y Release compilaron sin errores en una carpeta de salida aislada: la aplicación abierta en Visual Studio bloqueaba los binarios Debug habituales y no se cerró su sesión. NuGet emitió NU1900 porque no pudo consultar su índice de vulnerabilidades; no se desactivó esa comprobación.
+
+## Respaldo y recuperación
+
+Rama de trabajo: `correcciones/rechazos-autorizacion-20261027`.
+
+Respaldo previo: `respaldo/antes-rechazos-autorizacion-20261027`, commit `f488700`.
+
+Para usar el código anterior, detén la depuración, preserva cualquier trabajo posterior y cambia a la rama de respaldo; recompila antes de abrir. No se requiere restaurar ni migrar la base habitual para esta corrección. No se hizo push ni se mezcló con main.
+
+Para cargar la corrección actual en Visual Studio, detén la instancia anterior con Shift+F5 y vuelve a compilar y ejecutar el proyecto Frontend con F5.
